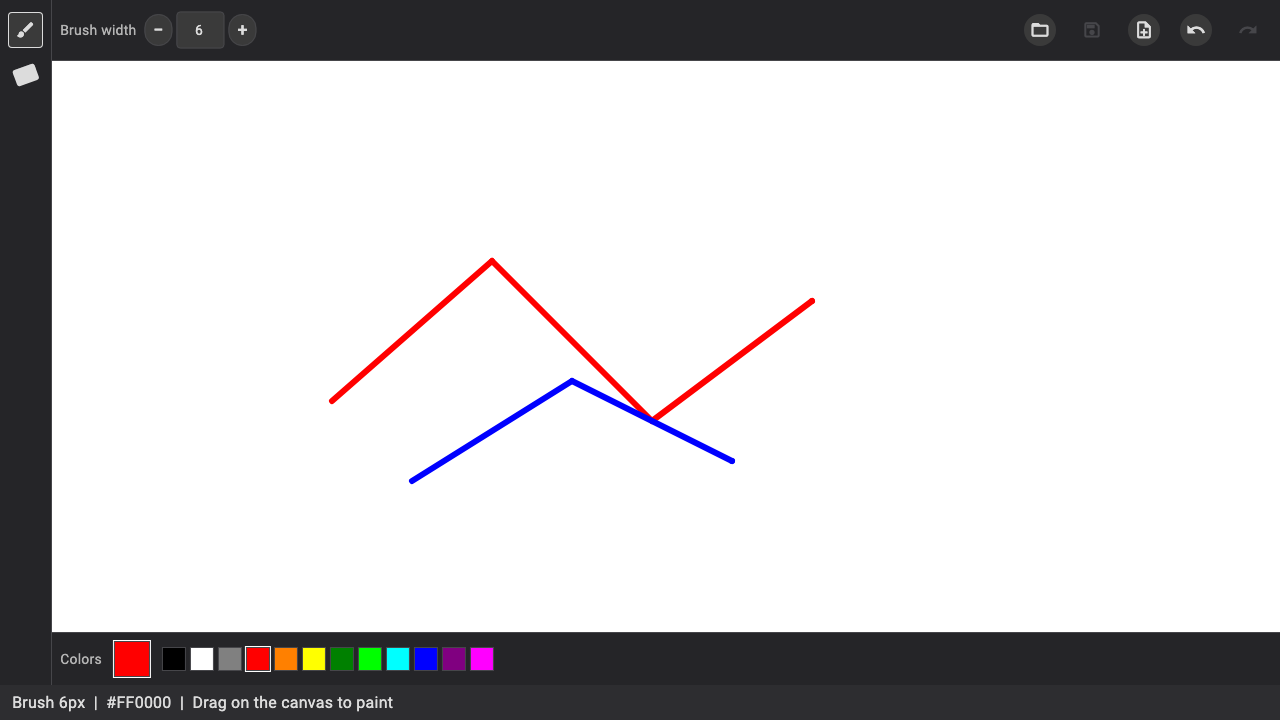
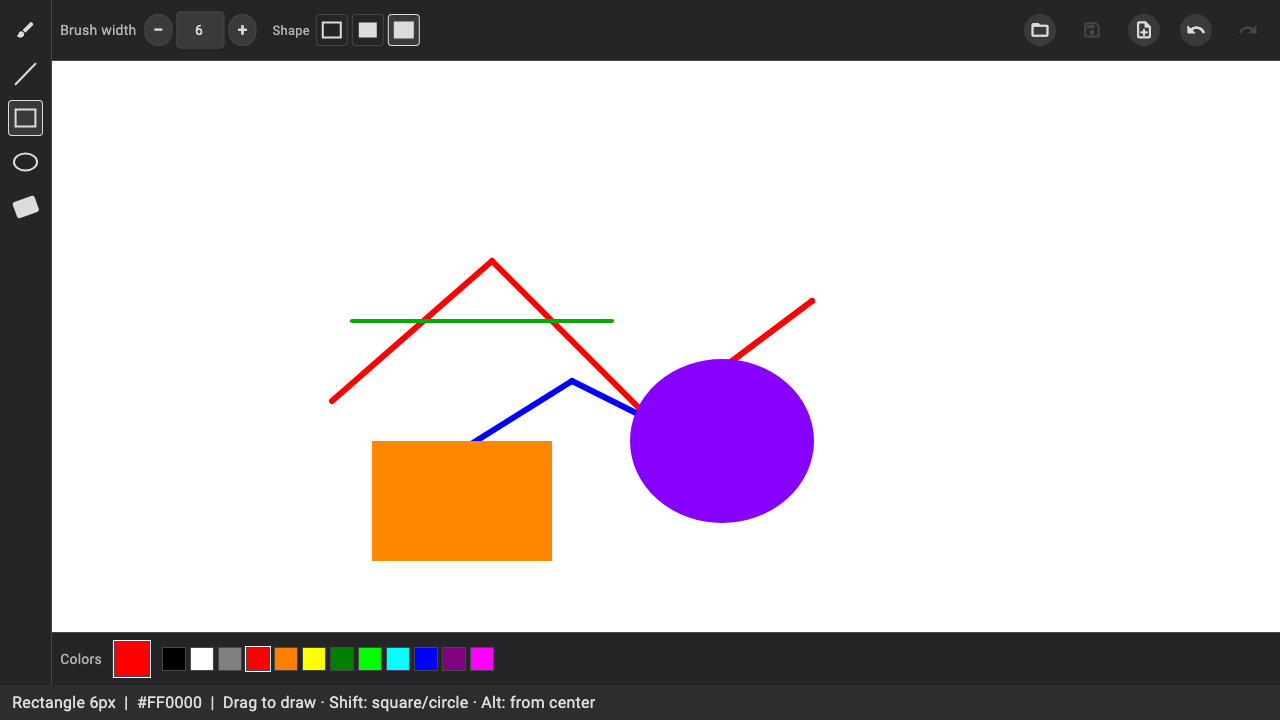
more features, who even knows

diff --git a/lib/demo/screenshot_demo.dart b/lib/demo/screenshot_demo.dart
@@ -1,4 +1,5 @@
 import 'package:flutter/material.dart';
+import 'package:vibepaint/models/shape_style.dart';
 import 'package:vibepaint/models/stroke.dart';
 
 const double screenshotBrushSize = 6;
@@ -23,6 +24,26 @@ List<Stroke> screenshotDemoStrokes() {
         Offset(520, 320),
         Offset(680, 400),
       ],
+    ),
+    Stroke(
+      color: const Color(0xFF00AA00),
+      brushSize: 4,
+      points: const [Offset(300, 260), Offset(560, 260)],
+      shape: StrokeShape.line,
+    ),
+    Stroke(
+      color: const Color(0xFFFF8800),
+      brushSize: 4,
+      points: const [Offset(320, 380), Offset(500, 500)],
+      shape: StrokeShape.rectangle,
+      style: ShapeStyle.filled,
+    ),
+    Stroke(
+      color: const Color(0xFF8800FF),
+      brushSize: 4,
+      points: const [Offset(580, 300), Offset(760, 460)],
+      shape: StrokeShape.ellipse,
+      style: ShapeStyle.filledOutline,
     ),
   ];
 }

diff --git a/lib/screens/paint_screen.dart b/lib/screens/paint_screen.dart
@@ -21,10 +21,14 @@ class PaintScreen extends StatefulWidget {
     super.key,
     this.initialStrokes = const [],
     this.initialColorIndex = 0,
+    this.initialTool = PaintTool.brush,
+    this.initialShapeStyle = ShapeStyle.outline,
   });
 
   final List<Stroke> initialStrokes;
   final int initialColorIndex;
+  final PaintTool initialTool;
+  final ShapeStyle initialShapeStyle;
 
   @override
   State<PaintScreen> createState() => _PaintScreenState();
@@ -50,6 +54,8 @@ class _PaintScreenState extends State<PaintScreen> {
     super.initState();
     _history = StrokeHistory(widget.initialStrokes);
     _selectedColorIndex = widget.initialColorIndex;
+    _activeTool = widget.initialTool;
+    _shapeStyle = widget.initialShapeStyle;
   }
 
   @override

diff --git a/test/generate_screenshot_test.dart b/test/generate_screenshot_test.dart
@@ -2,6 +2,8 @@ import 'package:flutter/material.dart';
 import 'package:flutter_test/flutter_test.dart';
 import 'package:vibepaint/demo/screenshot_demo.dart';
 import 'package:vibepaint/main.dart';
+import 'package:vibepaint/models/paint_tool.dart';
+import 'package:vibepaint/models/shape_style.dart';
 import 'package:vibepaint/screens/paint_screen.dart';
 
 import 'test_fonts.dart';
@@ -25,6 +27,8 @@ void main() {
           home: PaintScreen(
             initialStrokes: screenshotDemoStrokes(),
             initialColorIndex: 3,
+            initialTool: PaintTool.rectangle,
+            initialShapeStyle: ShapeStyle.filledOutline,
           ),
         ),
       ),

diff --git a/README.md b/README.md
@@ -1,4 +1,4 @@
-# Vibe Paint
+# VibePaint
 
 A vibe coded paint app.
 